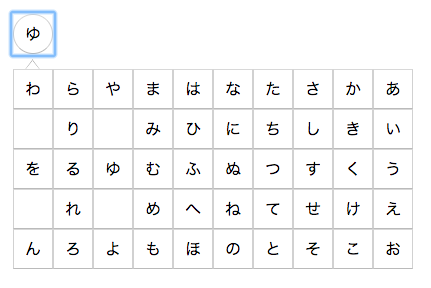
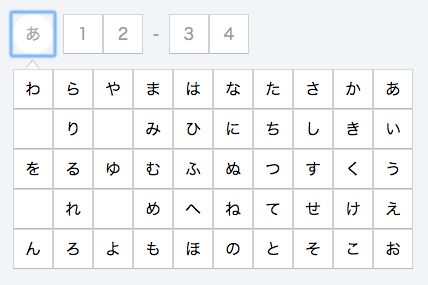
docs: change screenshot

diff --git a/README.md b/README.md
@@ -9,12 +9,12 @@
 ```js
 import { render } from 'react-dom'
 import * as React from 'react';
-import HiraganaPicker from 'react-hiragana-picker';
+import CarNumberPicker from 'react-car-number-picker';
 import 'react-hiragana-picker/css/index.css';
 
 render(
-  <HiraganaPicker 
-    value="あ" 
+  <CarNumberPicker 
+    value="あ1234" 
     onChange={(value) => {
       console.log(value);
     }} 
